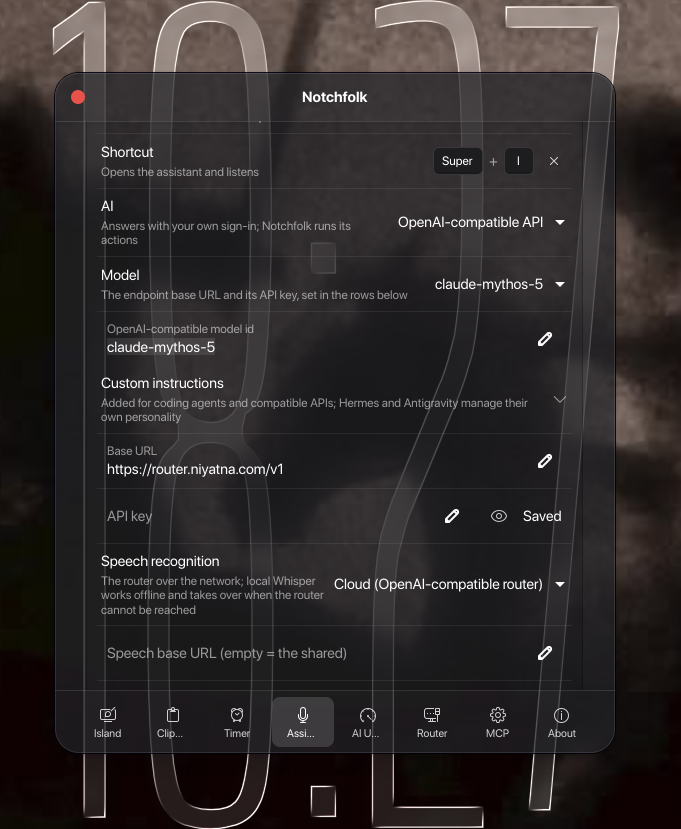
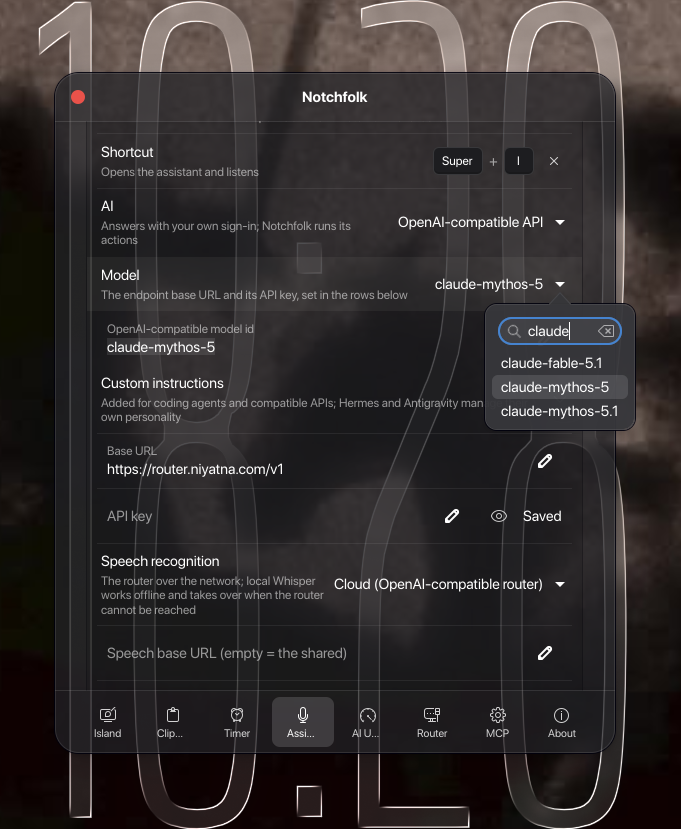
docs(readme): AI picker image back to the dropdown-open shot
The settled shot is the dropdown open on the model list, not the
closed one. Alt text updated to match.

diff --git a/README.md b/README.md
@@ -145,7 +145,7 @@ tabs for each page; pin it open to keep it there while you work elsewhere.
 <b>MCP server.</b> An optional MCP server for agents outside Notchfolk: read tools for your data and actions, writes only what you list in <code>~/.config/notchfolk/mcp.env</code>, on loopback by default and remote access through an authenticated tunnel. Beyond the island's own data, the world domains — seven, 150 tools in all: <b>System</b> (the machine itself — stats, logs, files, processes, updates, the sharp tools behind their own scope), <b>Browser</b> (the web through a real browser: Camoufox, or your own Chromium over CDP), <b>Memory</b> (the Hindsight engine's 39 tools — what the agent learns, kept across conversations), <b>Notes</b> (your own vault of Markdown notes, and memory's fallback), <b>Skills</b> (the world knows how to do things: the skill trees on the machine), <b>Office</b> (the world makes documents) and <b>Composio</b> (the world reaches your accounts — mail and drive, read on the default key, writes behind their own scope). A domain whose backend is absent is not offered at all; a restricted tool is not even visible to a key without its scope.
 </td>
 <td width="50%" valign="top">
-<img src="docs/images/more-ais.png" alt="The AI picker: OpenAI-compatible API with model claude-mythos-5, Cloud speech recognition" width="100%"><br>
+<img src="docs/images/more-ais.png" alt="The AI picker: OpenAI-compatible API selected, with the model list showing claude-mythos-5" width="100%"><br>
 <img src="docs/images/more-ais-omp.png" alt="Oh My Pi selected, with Custom instructions for its identity" width="100%"><br>
 <b>More AIs.</b> The assistant also runs Hermes and Oh My Pi with the providers they are configured for, plus any OpenAI-compatible API.
 </td>
